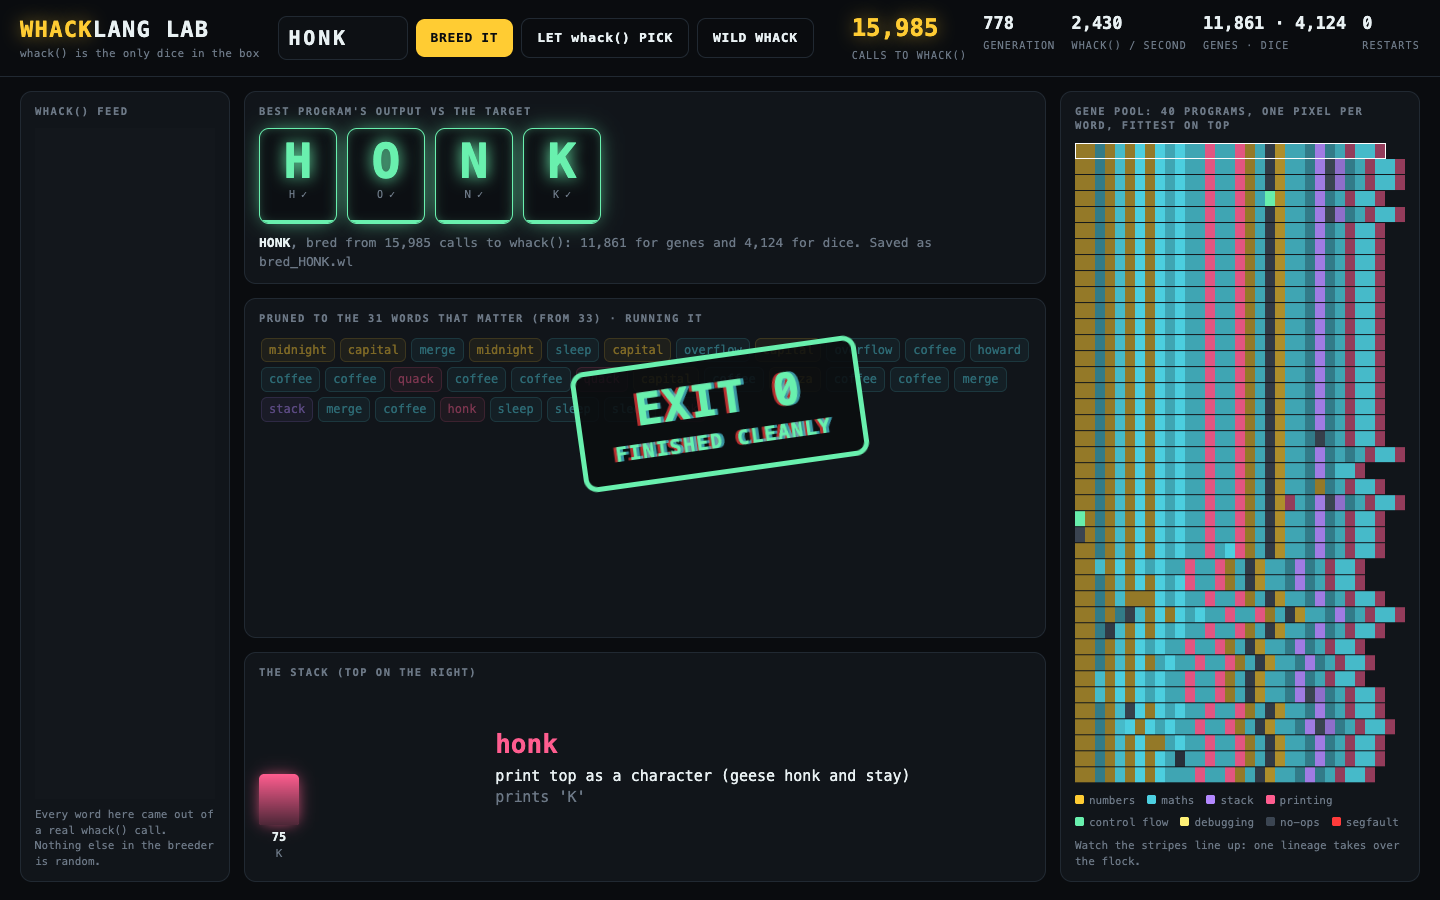
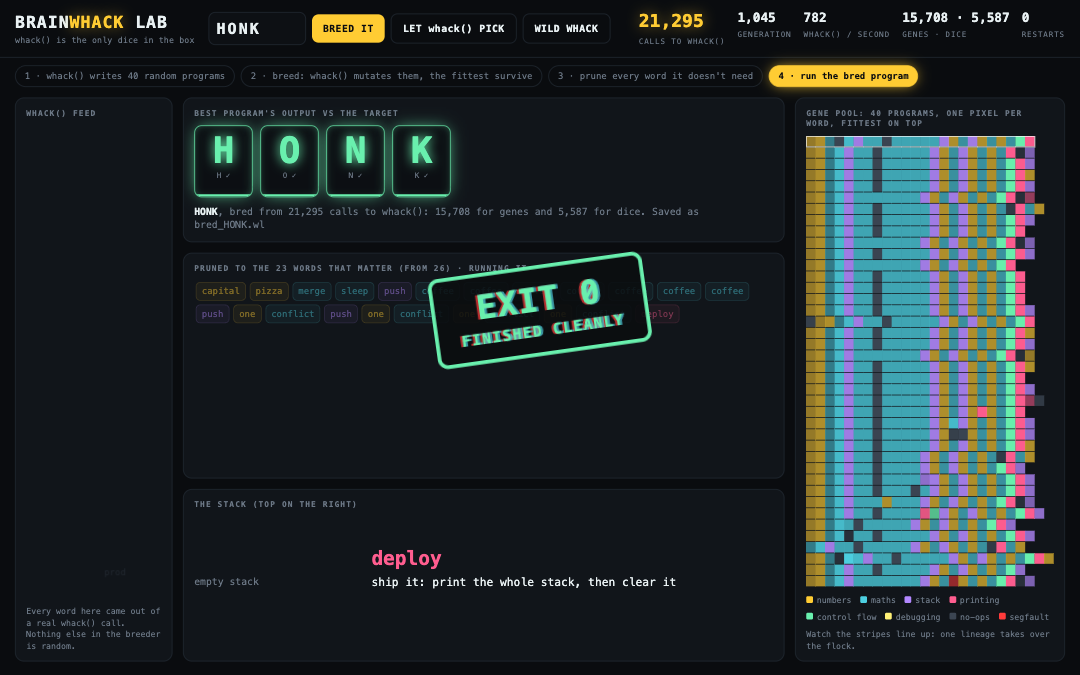
Re-record demo: watchable pace, phase bar, sharper GIF

diff --git a/submissions/arnavpopley/index.html b/submissions/arnavpopley/index.html
@@ -29,6 +29,9 @@
   .stat b { display: block; font-size: 17px; font-variant-numeric: tabular-nums; }
   .stat span { color: var(--dim); font-size: 10px; letter-spacing: .12em; text-transform: uppercase; }
   .stat.hero b { color: var(--literal); font-size: 24px; text-shadow: 0 0 18px rgba(255, 204, 51, .5); }
+  #phases { display: flex; gap: 8px; padding: 10px 20px 0; flex-wrap: wrap; }
+  #phases span { padding: 5px 12px; border-radius: 999px; border: 1px solid var(--line); color: var(--dim); font-size: 12px; transition: all .3s; }
+  #phases span.on { color: #0a0c0f; background: var(--literal); border-color: var(--literal); box-shadow: 0 0 18px -4px var(--literal); font-weight: 700; }
   main { flex: 1; display: grid; grid-template-columns: 210px minmax(0, 1fr) 360px; gap: 14px; padding: 14px 20px 18px; height: 0; min-height: 600px; }
   .panel { background: var(--panel); border: 1px solid var(--line); border-radius: 12px; padding: 12px 14px; position: relative; overflow: hidden; min-height: 0; }
   .panel h2 { margin: 0 0 10px; font-size: 10.5px; color: var(--dim); text-transform: uppercase; letter-spacing: .14em; font-weight: 600; }
@@ -117,6 +120,12 @@
     <div class="stat"><b id="restarts">0</b><span>restarts</span></div>
   </div>
 </header>
+<div id="phases">
+  <span data-p="seed">1 · whack() writes 40 random programs</span>
+  <span data-p="breed">2 · breed: whack() mutates them, the fittest survive</span>
+  <span data-p="prune">3 · prune every word it doesn't need</span>
+  <span data-p="run">4 · run the bred program</span>
+</div>
 <main>
   <section class="panel feed">
     <h2>whack() feed</h2>
@@ -165,6 +174,7 @@ const glyph = c => c > 32 && c < 127 ? String.fromCharCode(c) : c === 32 ? "␣"
 const text = arr => arr.map(glyph).join("");
 const fmt = n => Math.round(n).toLocaleString("en-GB");
 
+function phase(p) { document.querySelectorAll("#phases span").forEach(s => s.classList.toggle("on", s.dataset.p === p)); }
 function status(html, err = false) { $("status").innerHTML = html; $("status").classList.toggle("err", err); }
 
 function fit(canvas) {
@@ -180,14 +190,13 @@ function fit(canvas) {
 const drops = [];
 function spawn(words, n) {
   for (let i = 0; i < n && words && words.length; i++) {
-    drops.push({ w: words[(i * 7 + drops.length) % words.length], x: Math.random(), y: -4 - Math.random() * 30, v: 1.6 + Math.random() * 3 });
+    drops.push({ w: words[(i * 7 + drops.length) % words.length], x: Math.random(), y: -4 - Math.random() * 30, v: 0.8 + Math.random() * 0.9 });
   }
-  if (drops.length > 500) drops.splice(0, drops.length - 500);
+  if (drops.length > 70) drops.splice(0, drops.length - 70);
 }
 function rain() {
   const [ctx, w, h] = fit($("rain"));
-  ctx.fillStyle = "rgba(17, 21, 26, 0.24)";
-  ctx.fillRect(0, 0, w, h);
+  ctx.clearRect(0, 0, w, h);
   ctx.font = "12px ui-monospace, Menlo, monospace";
   ctx.textAlign = "center";
   for (const d of drops) {
@@ -323,6 +332,9 @@ function breed(target) {
              `Breeding from 40 programs that whack() wrote…`);
       renderTiles([], S.target);
     } else if (ev.type === "gen") {
+      phase(ev.gen === 1 ? "seed" : "breed");
+      if (ev.gen === 1) status("whack() just wrote 40 random programs. None of them print HONK yet.".replace("HONK", ev.target_text));
+      else if (S.history.length && S.history[0].gen === 1 && S.history.length === 1) status(`Breeding: every mutation and every choice comes from a fresh whack(). Letters lock in from the left.`);
       counters(ev);
       S.history.push({ gen: ev.gen, f: Math.max(0, ev.score) / ev.max });
       renderTiles(ev.out, ev.target);
@@ -334,7 +346,7 @@ function breed(target) {
       }
       renderPool(ev.pool);
       renderChart();
-      spawn(ev.rain, 2);
+      if (S.history.length % 2) spawn(ev.rain, 1);
     } else if (ev.type === "restart") {
       S.restarts.push(ev.gen);
       status(`Stuck on <b>${text(ev.stuck_on)}</b>. Honk! The goose scatters the flock: restart ${ev.restarts} from fresh whacks.`);
@@ -357,15 +369,16 @@ function breed(target) {
 async function finale(ev, my) {
   renderTiles(ev.trace.length ? ev.trace[ev.trace.length - 1].out : [], S.target);
   status(`<b>Bred it.</b> ${fmt(ev.gen)} generations, ${fmt(ev.calls)} calls to whack(), ${ev.elapsed.toFixed(1)}s. Now pruning every word it doesn't need…`);
+  phase("prune");
   renderTape(ev.before);
   $("tapeTitle").textContent = `the winner · ${ev.before.length} words`;
-  await sleep(900);
+  await sleep(1500);
   const keep = new Set(ev.keep), chips = [...$("tape").children];
   for (let i = 0; i < chips.length; i++) {
     if (my !== token) return;
-    if (!keep.has(i)) { chips[i].classList.add("cut"); await sleep(Math.max(25, 1400 / chips.length)); }
+    if (!keep.has(i)) { chips[i].classList.add("cut"); await sleep(Math.max(120, 2400 / chips.length)); }
   }
-  await sleep(700);
+  await sleep(1200);
   if (my !== token) return;
   renderTape(ev.program);
   $("tapeTitle").textContent = `pruned to the ${ev.program.length} words that matter (from ${ev.before.length}) · running it`;
@@ -375,10 +388,11 @@ async function finale(ev, my) {
 }
 
 async function execute(prog, trace, ending, target, my, steps) {
+  phase("run");
   $("chartPanel").hidden = true;
   $("vmPanel").hidden = false;
   const chips = [...$("tape").children];
-  const delay = trace.length > 60 ? Math.max(18, 7000 / trace.length) : 240;
+  const delay = trace.length > 40 ? Math.max(18, 9000 / trace.length) : 330;
   for (const f of trace) {
     if (my !== token) return;
     chips.forEach(c => c.classList.remove("pc"));

diff --git a/submissions/arnavpopley/whack_lab.py b/submissions/arnavpopley/whack_lab.py
@@ -45,7 +45,7 @@ class Lab(SimpleHTTPRequestHandler):
         if url.path == "/api/wild":
             return self.wild()
         if url.path == "/api/breed":
-            return self.breed(parse_qs(url.query).get("target", [""])[0])
+            return self.breed(parse_qs(url.query).get("target", [""])[0], "fast" not in url.query)
         return super().do_GET()
 
     def wild(self):
@@ -59,7 +59,7 @@ class Lab(SimpleHTTPRequestHandler):
         out, ending, steps = run(prog, trace=trace, trace_limit=240)
         self.send_json({"program": prog, "trace": trace, "ending": ending, "steps": steps, "out": list(out)})
 
-    def breed(self, target):
+    def breed(self, target, watchable=True):
         rng = WhackRandom()
         target = "".join(c for c in target if 32 <= ord(c) < 127)[:8]
         chosen = not target
@@ -82,6 +82,8 @@ class Lab(SimpleHTTPRequestHandler):
                 if ev["type"] != "gen" or time.time() - last > 0.045:  # about 20 frames a second
                     last = time.time()
                     send(payload(ev))
+                if watchable and ev["type"] == "gen":  # slow enough to follow; ?fast skips this
+                    time.sleep(2.0 if ev["gen"] == 1 else 0.012)
                 if ev["type"] == "done":
                     print(f"  bred {target!r} in {ev['gen']:,} generations, {ev['calls']:,} calls to whack(): saved {save(ev)}")
         except (BrokenPipeError, ConnectionResetError):
